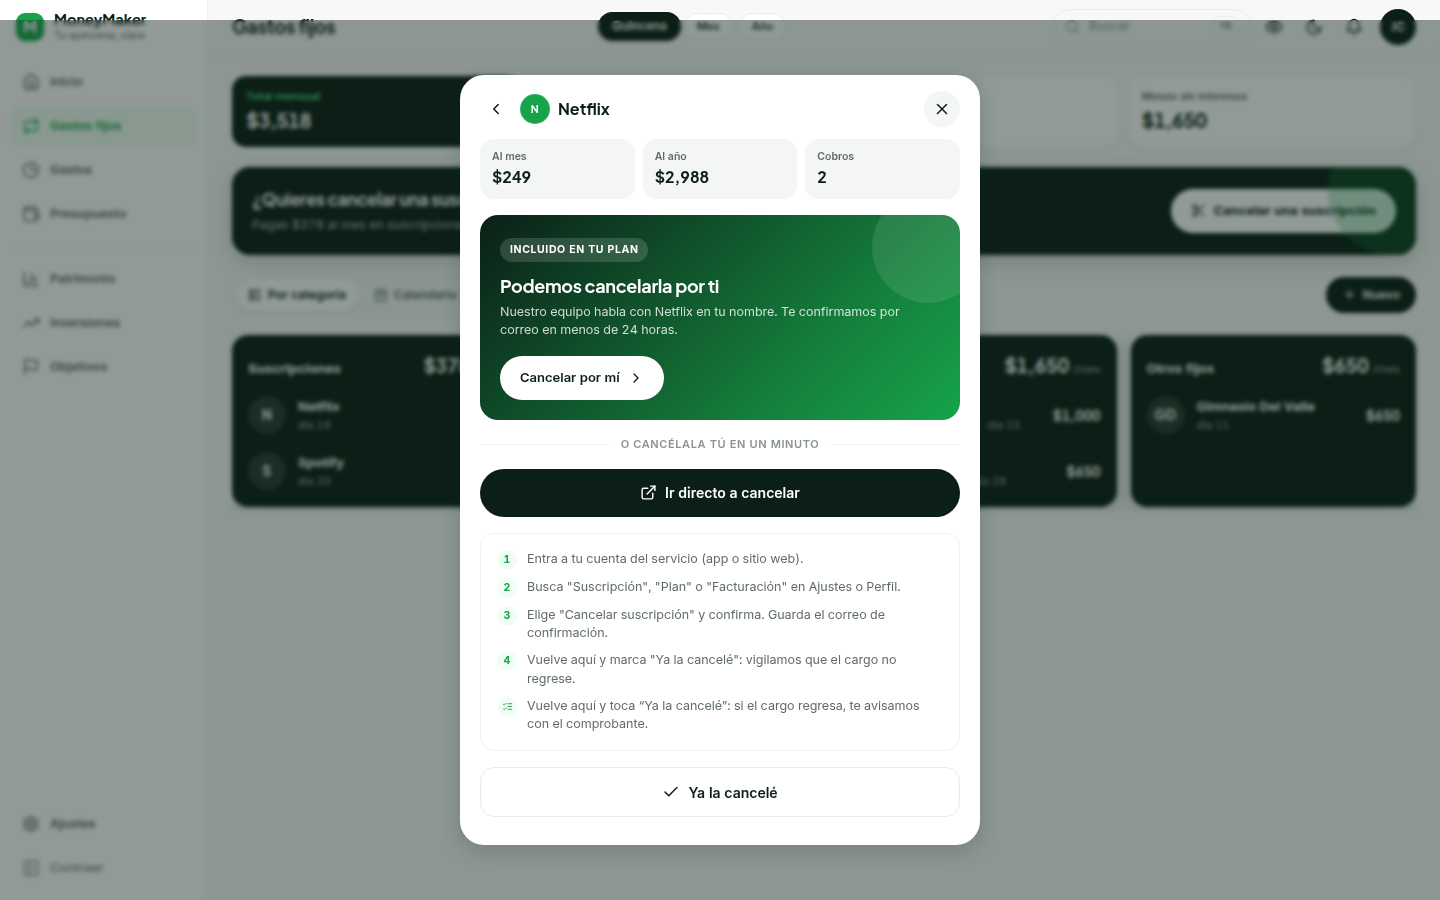
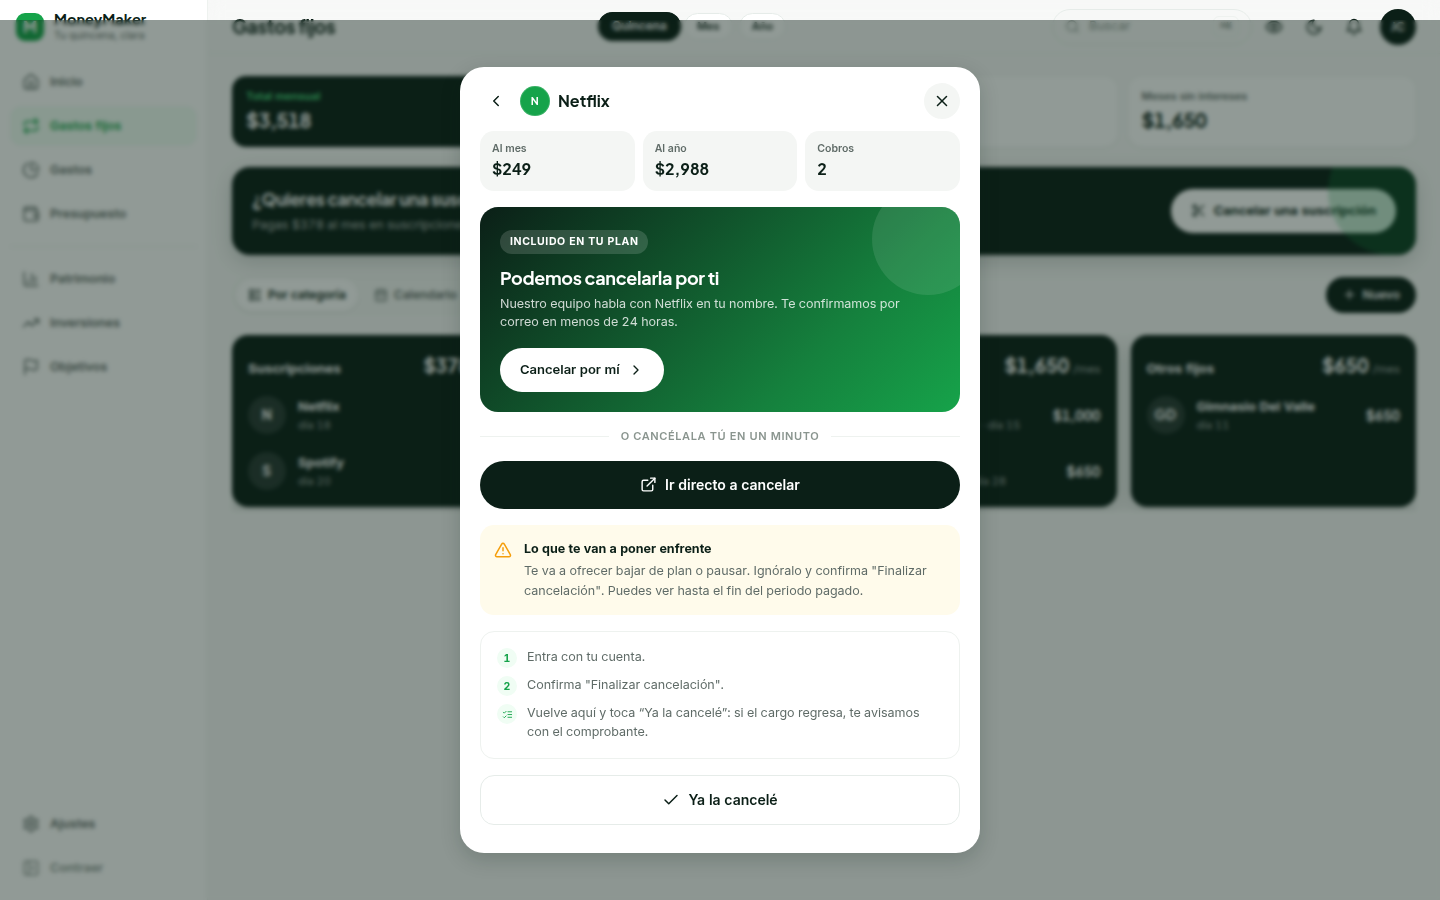
Cancelar: el catálogo (enlace directo, pasos y truco) va antes que el diccionario interno
Claude-Session: https://claude.ai/code/session_01L3kj8yPj5MbcrQ9TZw12Hz

diff --git a/src/components/fijos/ModalCancelar.tsx b/src/components/fijos/ModalCancelar.tsx
@@ -6,6 +6,7 @@ import { Search, ExternalLink, ListChecks, ChevronRight, Check, ShieldCheck, Che
 import { cn } from '@/lib/cn';
 import { money } from '@/lib/format';
 import { COMERCIOS, type ComercioConocido } from '@/lib/domain/comercios';
+import { COMERCIOS_DESDE_CATALOGO } from '@/lib/domain/catalogo';
 import { normalizar } from '@/lib/domain/categorizar';
 import { costoMensual } from '@/lib/domain/recurrentes';
 import type { Recurrente } from '@/lib/domain/tipos';
@@ -16,6 +17,9 @@ import { marcarCancelada, solicitarCancelacion } from '@/app/app/fijos/acciones'
 
 type Servicio = { id: string; nombre: string; dominio: string | null; recurrente?: Recurrente; conocido?: ComercioConocido };
 type Paso = 'elegir' | 'detalle' | 'formulario' | 'listo';
+
+// El catálogo de Producto (enlace directo, pasos y truco) va antes que el diccionario interno.
+const CONOCIDOS = [...COMERCIOS_DESDE_CATALOGO, ...COMERCIOS];
 
 const PASOS_GENERICOS = ['Entra a tu cuenta del servicio (app o sitio web).', 'Busca "Suscripción", "Plan" o "Facturación" en Ajustes o Perfil.', 'Elige "Cancelar suscripción" y confirma. Guarda el correo de confirmación.', 'Vuelve aquí y marca "Ya la cancelé": vigilamos que el cargo no regrese.'];
 
@@ -34,7 +38,7 @@ export function ModalCancelar({ open, onClose, recurrentes, inicial }: { open: b
   const conocidos = useMemo(() => {
     const vistos = new Set(propias.map((p) => p.nombre.toLowerCase()));
     const unicos = new Map<string, ComercioConocido>();
-    for (const c of COMERCIOS) if (c.suscripcion && c.cancelarUrl && !vistos.has(c.nombre.toLowerCase()) && !unicos.has(c.nombre)) unicos.set(c.nombre, c);
+    for (const c of CONOCIDOS) if ((c.suscripcion || c.servicio) && c.cancelarUrl && !vistos.has(c.nombre.toLowerCase()) && !unicos.has(c.nombre)) unicos.set(c.nombre, c);
     return Array.from(unicos.values()).map((c) => ({ id: `c:${c.nombre}`, nombre: c.nombre, dominio: c.dominio, conocido: c }) as Servicio);
   }, [propias]);
   const s = q.trim().toLowerCase();
@@ -42,7 +46,7 @@ export function ModalCancelar({ open, onClose, recurrentes, inicial }: { open: b
   const listaConocidos = conocidos.filter((p) => !s || p.nombre.toLowerCase().includes(s)).slice(0, s ? 12 : 8);
 
   const r = sel?.recurrente;
-  const conocido = sel?.conocido ?? (r ? COMERCIOS.find((c) => normalizar(r.nombre).includes(c.patron)) : undefined);
+  const conocido = sel?.conocido ?? (r ? CONOCIDOS.find((c) => normalizar(r.nombre).includes(c.patron)) : undefined);
   const mensual = r ? (r.tipo === 'msi' ? r.monto : costoMensual(r)) : 0;
 
   const cerrar = () => {
